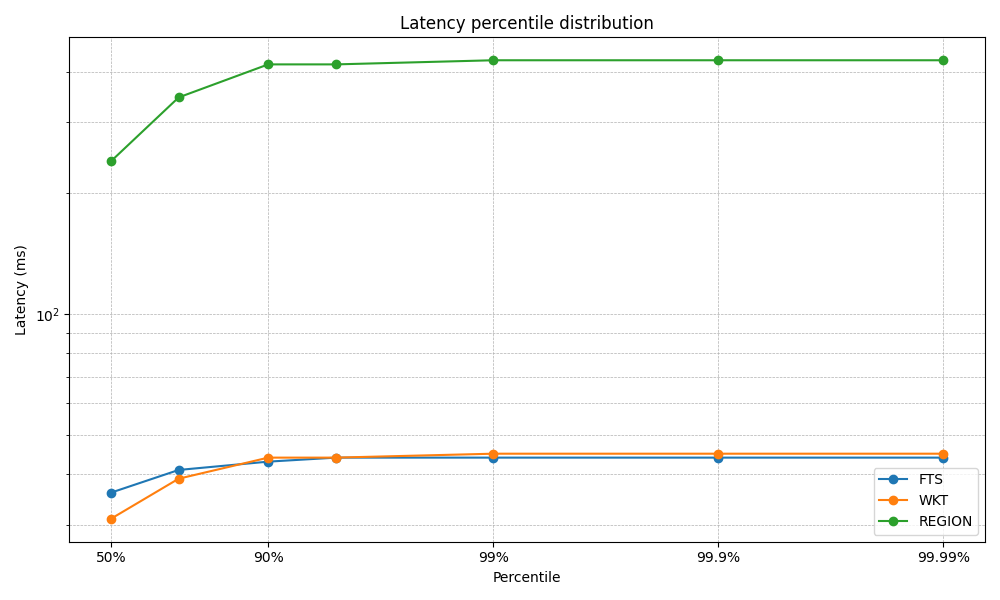
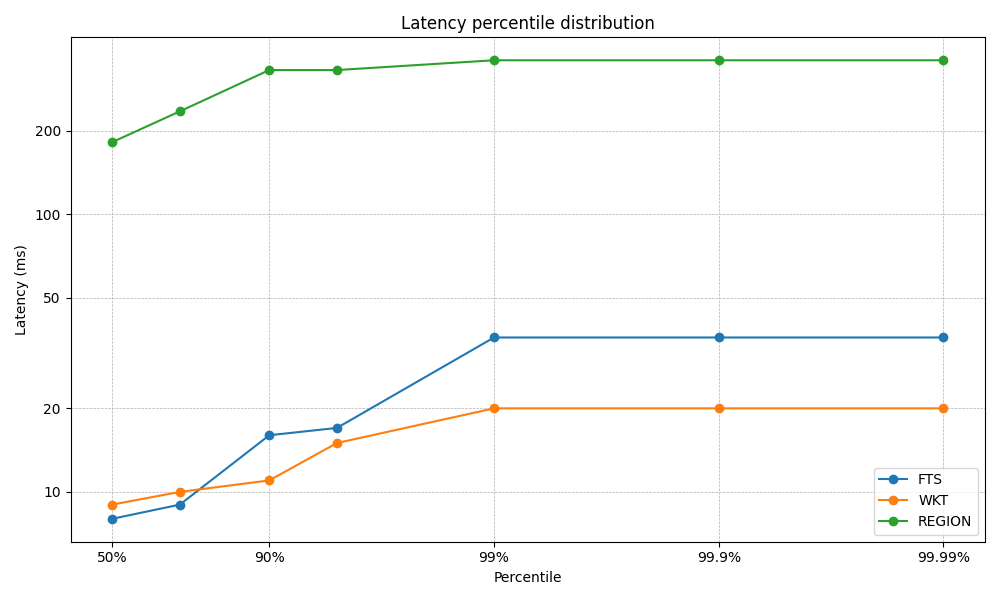
Denser Y-axis ticks on latency chart (1/2/5 family)
Default log-axis tick generators only labeled decade boundaries (10,
100, 1000) — visually you couldn't tell 30ms from 70ms. Add an explicit
[1, 2, 5, 10, 20, 50, 100, 200, 500, 1000, 2000, 5000, 10000] tick set
across all three runtimes via the same library-specific mechanisms we
already use for the X axis: Java's custom NumberAxis subclass with
refreshTicks, Python's FixedLocator + FixedFormatter, .NET's
NumericManual tick generator over log10-transformed Y data.

Java additionally switches from LogarithmicAxis to the same
linear-axis-over-log10-data trick used for X, since the
LogarithmicAxis's auto tick generator can't be coerced to honor a
custom tick set.

doc/ screenshots refreshed against the live cluster.

diff --git a/src_weather/main/java/QueryCrate.java b/src_weather/main/java/QueryCrate.java
@@ -18,7 +18,6 @@ import org.jfree.chart.ChartFactory;
 import org.jfree.chart.ChartUtils;
 import org.jfree.chart.JFreeChart;
 import org.jfree.chart.axis.AxisState;
-import org.jfree.chart.axis.LogarithmicAxis;
 import org.jfree.chart.axis.NumberAxis;
 import org.jfree.chart.axis.NumberTick;
 import org.jfree.chart.axis.TickType;
@@ -450,6 +449,11 @@ public class QueryCrate {
     // not in this list is plotted but not labeled.
     private static final double[] CHART_LABELED_PERCENTILES = {50, 90, 99, 99.9, 99.99};
 
+    // Y-axis tick positions in milliseconds. 1/2/5 family across 1–10000ms;
+    // sparse enough to read, dense enough that you can locate a value within
+    // ~20% by eye on a typical run.
+    private static final double[] CHART_LATENCY_TICKS_MS = {1, 2, 5, 10, 20, 50, 100, 200, 500, 1000, 2000, 5000, 10000};
+
     // Writes a percentile-distribution PNG (one line per query type) to
     // latency_histogram.png in the working directory. X values are
     // log10(1/(1-p/100)) on a linear NumberAxis — this gives the tail
@@ -466,7 +470,7 @@ public class QueryCrate {
                 double x = Math.log10(1.0 / (1.0 - p / 100.0));
                 // Clamp to 1ms — HdrHistogram returns integer ms, so a 0 here is
                 // really "sub-millisecond" and would break the log Y axis.
-                double y = Math.max(entry.getValue().getValueAtPercentile(p), 1);
+                double y = Math.log10(Math.max(entry.getValue().getValueAtPercentile(p), 1));
                 series.add(x, y);
             }
             dataset.addSeries(series);
@@ -500,8 +504,22 @@ public class QueryCrate {
         xAxis.setAutoRangeIncludesZero(false);
         plot.setDomainAxis(xAxis);
 
-        LogarithmicAxis yAxis = new LogarithmicAxis("Latency (ms)");
-        yAxis.setAllowNegativesFlag(false);
+        // Y axis uses the same linear-NumberAxis-over-log10-data trick as X,
+        // so we can place an explicit 1/2/5-family tick set in milliseconds.
+        NumberAxis yAxis = new NumberAxis("Latency (ms)") {
+            @Override
+            public List<NumberTick> refreshTicks(Graphics2D g2, AxisState state,
+                                                 Rectangle2D dataArea, RectangleEdge edge) {
+                List<NumberTick> ticks = new ArrayList<>();
+                for (double ms : CHART_LATENCY_TICKS_MS) {
+                    double y = Math.log10(ms);
+                    ticks.add(new NumberTick(TickType.MAJOR, y, Long.toString((long) ms),
+                            TextAnchor.CENTER_RIGHT, TextAnchor.CENTER, 0.0));
+                }
+                return ticks;
+            }
+        };
+        yAxis.setAutoRangeIncludesZero(false);
         plot.setRangeAxis(yAxis);
 
         File out = new File("latency_histogram.png");

diff --git a/src_weather/main/dotnet/Program.cs b/src_weather/main/dotnet/Program.cs
@@ -93,6 +93,10 @@ HashSet<string> validQueryTypes = ["WKT", "REGION", "FTS"];
 // (p99 → p99.99) visible separation under a log-scaled X axis.
 double[] chartPercentiles = [50, 75, 90, 95, 99, 99.9, 99.99];
 
+// Y-axis tick positions in milliseconds. 1/2/5 family across 1–10000ms;
+// sparse enough to read, dense enough to locate a value within ~20% by eye.
+double[] chartLatencyTicksMs = [1, 2, 5, 10, 20, 50, 100, 200, 500, 1000, 2000, 5000, 10000];
+
 // Populated once at startup from the database and sampled randomly during the workload.
 List<(double x, double y)> geoPoints = [];
 List<DateTime> timestamps = [];
@@ -398,13 +402,12 @@ void RenderChart(Dictionary<string, LongHistogram> histograms)
     var tickLabels = tickPcts.Select(p => $"{p}%").ToArray();
     plot.Axes.Bottom.TickGenerator = new ScottPlot.TickGenerators.NumericManual(tickPositions, tickLabels);
 
-    // Relabel the Y axis from log10 values back to milliseconds (1, 10, 100, …).
-    plot.Axes.Left.TickGenerator = new ScottPlot.TickGenerators.NumericAutomatic
-    {
-        MinorTickGenerator = new ScottPlot.TickGenerators.LogMinorTickGenerator(),
-        IntegerTicksOnly = true,
-        LabelFormatter = y => $"{Math.Pow(10, y):N0}",
-    };
+    // Relabel the Y axis from log10 values back to milliseconds. Use a
+    // NumericManual generator at the 1/2/5 family so the axis has visible
+    // ticks between decades instead of just 1, 10, 100, 1000.
+    var yTickPositions = chartLatencyTicksMs.Select(Math.Log10).ToArray();
+    var yTickLabels = chartLatencyTicksMs.Select(v => v.ToString("N0")).ToArray();
+    plot.Axes.Left.TickGenerator = new ScottPlot.TickGenerators.NumericManual(yTickPositions, yTickLabels);
 
     plot.Title("Latency percentile distribution");
     plot.XLabel("Percentile");

diff --git a/src_weather/main/python/query_crate.py b/src_weather/main/python/query_crate.py
@@ -111,6 +111,10 @@ VALID_QUERY_TYPES = {"WKT", "REGION", "FTS"}
 # (p99 → p99.99) visible separation under a log-scaled X axis.
 CHART_PERCENTILES = [50, 75, 90, 95, 99, 99.9, 99.99]
 
+# Y-axis tick positions in milliseconds. 1/2/5 family across 1–10000ms;
+# sparse enough to read, dense enough to locate a value within ~20% by eye.
+CHART_LATENCY_TICKS_MS = [1, 2, 5, 10, 20, 50, 100, 200, 500, 1000, 2000, 5000, 10000]
+
 # Populated once at startup from the database and then sampled randomly during the workload.
 geo_points: list[tuple[float, float]] = []
 timestamps: list = []
@@ -259,6 +263,13 @@ def render_chart(histograms: dict[str, HdrHistogram]):
     ax.xaxis.set_major_locator(FixedLocator([1.0 / (1.0 - p / 100.0) for p in tick_pcts]))
     ax.xaxis.set_major_formatter(FixedFormatter([f"{p}%" for p in tick_pcts]))
     ax.xaxis.set_minor_locator(NullLocator())
+
+    # matplotlib's default LogLocator only labels decade boundaries (10, 100,
+    # 1000). Place an explicit 1/2/5-family tick set so the Y axis reads
+    # smoothly across the range.
+    ax.yaxis.set_major_locator(FixedLocator(CHART_LATENCY_TICKS_MS))
+    ax.yaxis.set_major_formatter(FixedFormatter([str(v) for v in CHART_LATENCY_TICKS_MS]))
+    ax.yaxis.set_minor_locator(NullLocator())
 
     ax.set_xlabel("Percentile")
     ax.set_ylabel("Latency (ms)")